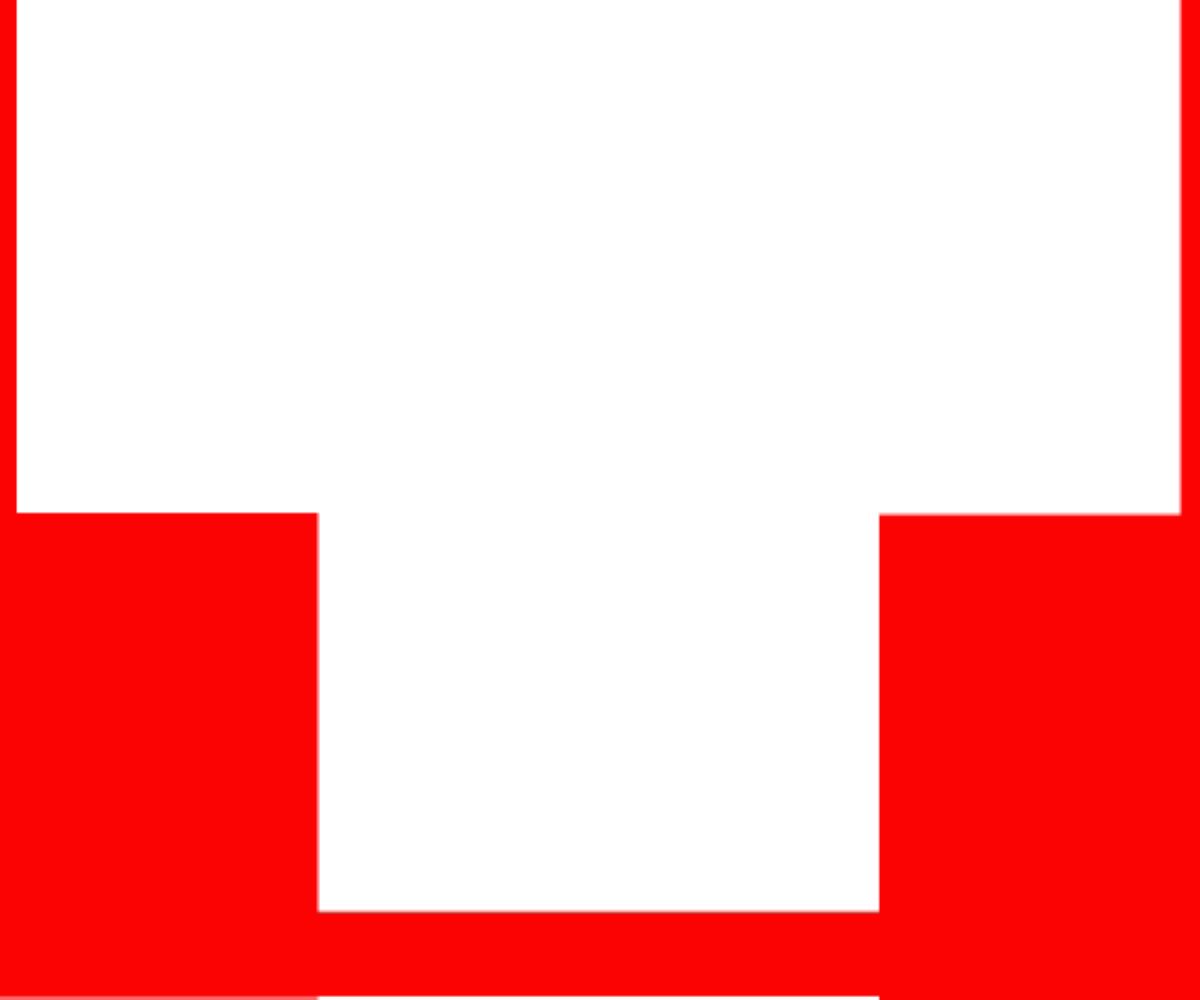
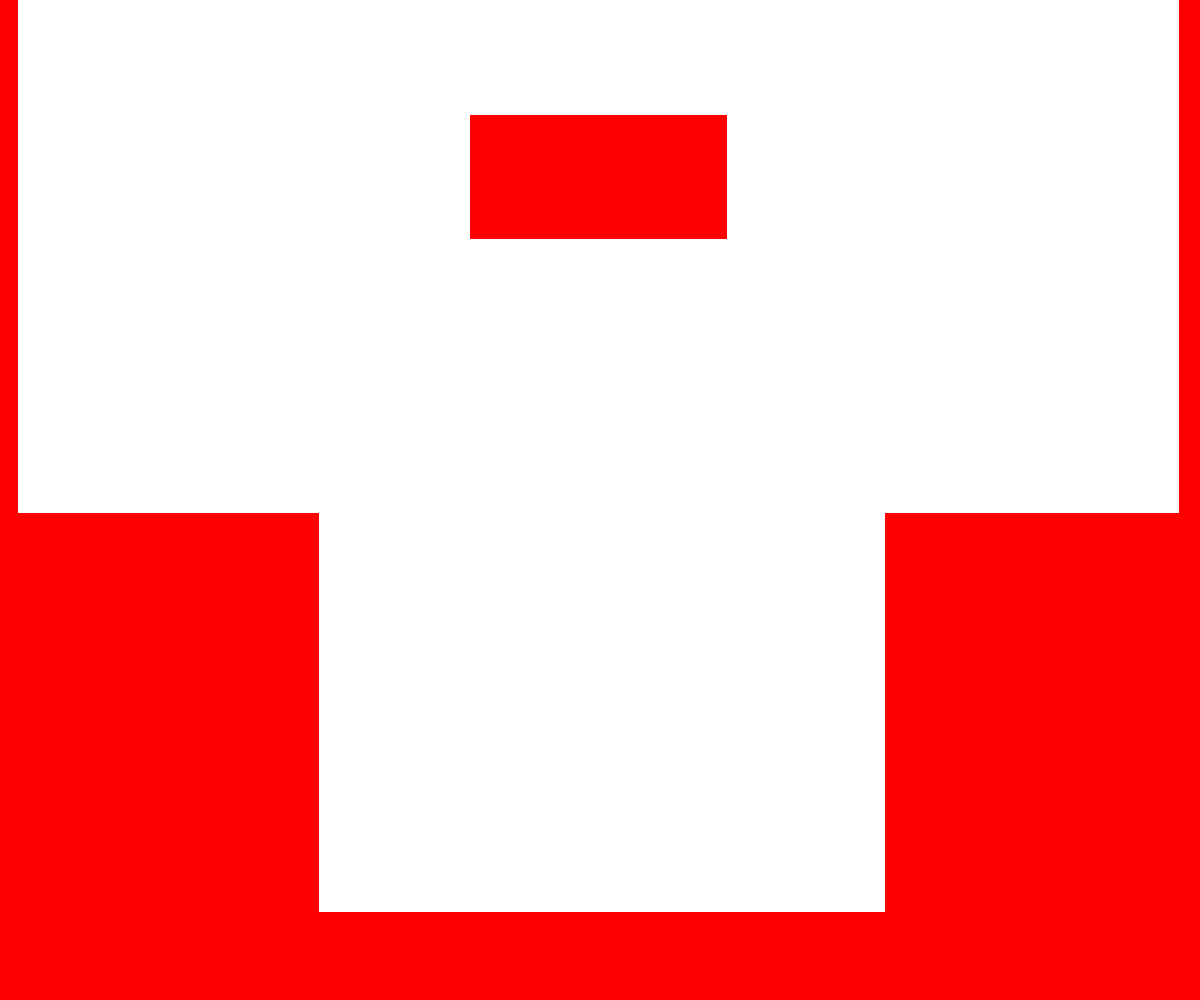
edit 2s.png

diff --git a/king.py b/king.py
@@ -115,6 +115,7 @@ class MainCharacter(pygame.sprite.Sprite):
 
 
     def update(self):
+
         key_press = pygame.key.get_pressed()
         #print(self.rect.center)
 
@@ -227,7 +228,7 @@ class MainCharacter(pygame.sprite.Sprite):
 
                     # TODO: parabola coefficients and starting x position
                     #       according to the holding time
-                    self.parabola = Parabola(-1, 0, -2, direction, 0.1)
+                    self.parabola = Parabola(-1, 0, -5, direction, 0.1)
 
                 # didn't press anymore, so reset it
                 self.hold_keys[key] = [0, 0]
@@ -240,6 +241,11 @@ class MainCharacter(pygame.sprite.Sprite):
             self.rect.bottom = setting.screen_size[1]
             global_var.stage_no += 1
             global_var.stage_map = map_setting.Map(global_var.stage_no)
+        if self.rect.bottom > setting.screen_size[1]:
+            self.rect.bottom = 1
+            global_var.stage_no -= 1
+            global_var.stage_map = map_setting.Map(global_var.stage_no)
+
 
 
     def moving_animation(self):
@@ -261,23 +267,25 @@ class MainCharacter(pygame.sprite.Sprite):
                 self.jump = False
 
     def hit_ground(self):
-        x_coor = self.rect.bottom + 2
+        y_coor = self.rect.bottom - 1
         map_data = global_var.stage_map.get_map_data()
 
-        for y_coor in range(self.rect.left + 2, self.rect.right - 1):
-            if map_data[x_coor][y_coor] == 'X':
+        for x_coor in range(self.rect.left + 2, self.rect.right - 1):
+
+            if map_data[y_coor][x_coor] == 'X':
                 return True
         return False
 
     # Check for hitting wall
     def hit_wall(self):
         if self.right:
-            y_coor = self.rect.right
+            x_coor = self.rect.right
         elif self.left:
-            y_coor = self.rect.left
+            x_coor = self.rect.left
         map_data = global_var.stage_map.get_map_data()
 
-        for x_coor in range(self.rect.top, self.rect.bottom + 1):
-            if map_data[x_coor][y_coor] == 'X':
+        for y_coor in range(self.rect.top, self.rect.bottom):
+
+            if map_data[y_coor][x_coor] == 'X':
                 return True
         return False

diff --git a/map_setting.py b/map_setting.py
@@ -7,7 +7,7 @@ from PIL import Image
 
 class Map:
     YELLOW = 255, 255, 0, 255
-    RED = 251, 3, 3, 255
+    RED = 255, 0, 0, 255
 
     def __init__(self, map_number):
         self.map_display = pygame.image.load(os.path.join(setting.stage_images_path, f'{map_number}.png'))
@@ -16,20 +16,20 @@ class Map:
 
         self.map_data = []
         pix_ms = self.map_sprite.load()
-        for x in range(setting.screen_size[1]):
+        for y in range(setting.screen_size[1]):
             row_data = []
-            for y in range(setting.screen_size[0]):
+            for x in range(setting.screen_size[0]):
                 #print(pix_ms[x, y])
-                if pix_ms[y, x] == Map.RED:
+                if pix_ms[x, y] == Map.RED:
                     row_data.append("X")
-                elif pix_ms[y, x] == Map.YELLOW:
+                elif pix_ms[x, y] == Map.YELLOW:
                     row_data.append("O")
                 else:
                     row_data.append(" ")
             self.map_data.append(row_data)
 
         # print(self.map_data)
-        # self.debugMap()
+        self.debugMap()
 
     def get_map_data(self):
         return self.map_data
